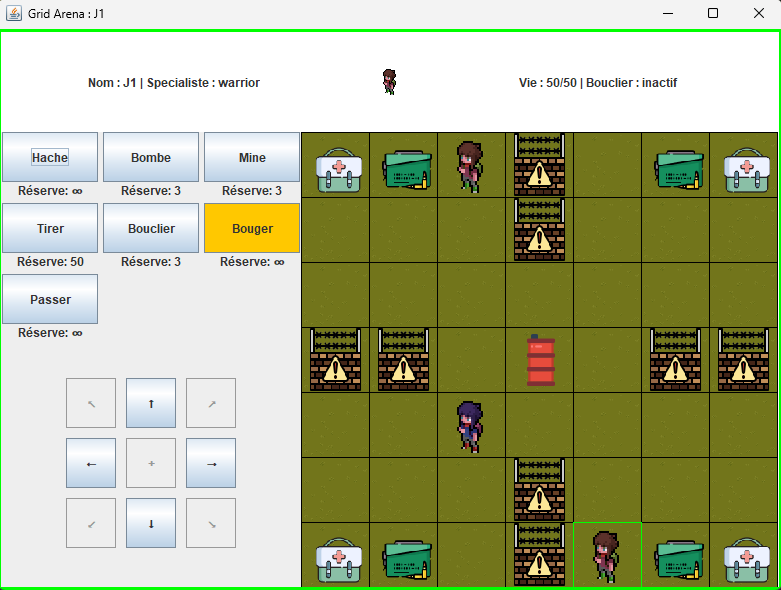
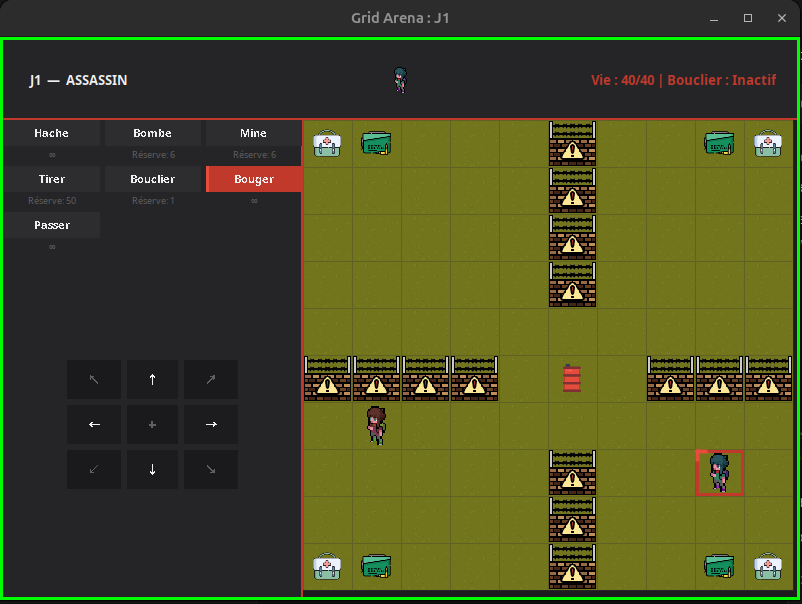
feat: screenshots

diff --git a/src/main/java/gridarena/view/BattlefieldView.java b/src/main/java/gridarena/view/BattlefieldView.java
@@ -55,16 +55,46 @@ public class BattlefieldView extends JPanel implements ModelListener {
                     if (map[i][j] != null) {
                         String imageUrl = map[i][j].getImageUrl();
                         Image img = new ImageIcon(getClass().getResource(imageUrl)).getImage();
-                        if (map[i][j] instanceof Barrel) {
-                            g.drawImage(img, (x + cellWidth / 2)-20, y + cellHeight / 5 - 6, 22 * 2, 26 * 2, null);
-                        } else if (map[i][j] instanceof Wall) {
-                            g.drawImage(img, x+8, y, cellWidth-15, cellHeight, null);
-                        } else if (map[i][j] instanceof Explosive) {
-                            g.drawImage(img, x + cellWidth / 5, y + cellHeight / 5, cellWidth-20, cellHeight-20, null);
-                        } else if (map[i][j] instanceof Consumable) {
-                            g.drawImage(img, x + cellWidth / 5, y + cellHeight / 5, 50, 50, null);
-                        } else if(map[i][j] instanceof Hero) {
-                            g.drawImage(img, x+20, y+9, 13 * 2, 26 * 2, null);
+                        if (map[i][j] instanceof Wall) {
+                            // Les murs remplissent entièrement la case pour se toucher correctement
+                            g.drawImage(img, x, y, cellWidth, cellHeight, null);
+                        } else {
+                            // Détermination du facteur d'échelle selon le type d'entité
+                            double scaleFactor = 0.75;
+                            if (map[i][j] instanceof Hero) {
+                                scaleFactor = 0.85;
+                            } else if (map[i][j] instanceof Explosive) {
+                                scaleFactor = 0.6;
+                            } else if (map[i][j] instanceof Consumable) {
+                                scaleFactor = 0.65;
+                            }
+
+                            int maxW = (int) (cellWidth * scaleFactor);
+                            int maxH = (int) (cellHeight * scaleFactor);
+
+                            int imgWidth = img.getWidth(null);
+                            int imgHeight = img.getHeight(null);
+                            if (imgWidth <= 0 || imgHeight <= 0) {
+                                imgWidth = 50;
+                                imgHeight = 50;
+                            }
+
+                            double imgRatio = (double) imgWidth / imgHeight;
+                            double cellRatio = (double) maxW / maxH;
+
+                            int drawW, drawH;
+                            if (imgRatio > cellRatio) {
+                                drawW = maxW;
+                                drawH = (int) (maxW / imgRatio);
+                            } else {
+                                drawH = maxH;
+                                drawW = (int) (maxH * imgRatio);
+                            }
+
+                            int drawX = x + (cellWidth - drawW) / 2;
+                            int drawY = y + (cellHeight - drawH) / 2;
+
+                            g.drawImage(img, drawX, drawY, drawW, drawH, null);
                         }
                     }
                 }

diff --git a/README.md b/README.md
@@ -35,8 +35,8 @@ Ce projet sert de démonstrateur pour l'application pratique des patrons de conc
 ### Vue du Joueur (Brouillard de guerre)
 ![vue-joueur](./screenshots/vue-joueur.png)
 
-### Vue Générale (Arbitre / Spectateur)
-![vue-jeu-complet](./screenshots/vue-jeu-complet.png)
+### Vue Panel Admin (Arbitre / Spectateur)
+![vue-panel-admin](./screenshots/panel-admin.png)
 
 ### Sélection du Personnage
 ![choisir personnage](./screenshots/choisir-personnage.png)